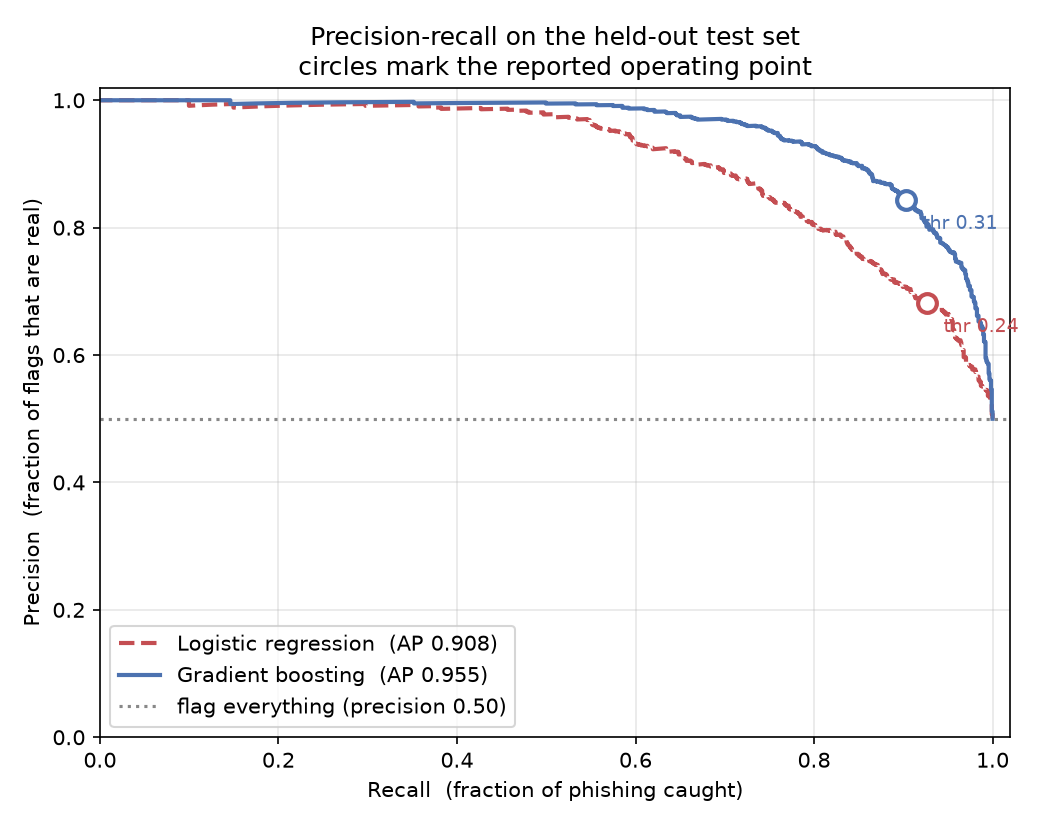
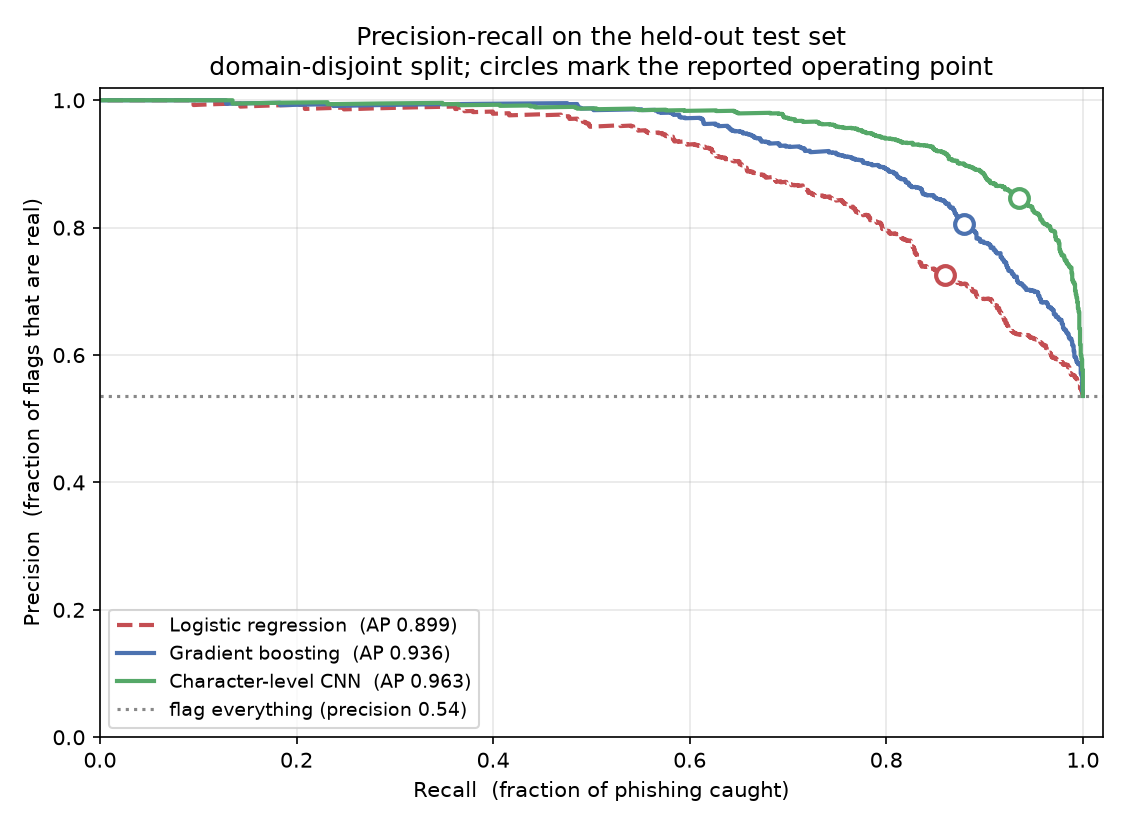
Week 4: three-model PR/ROC curves under the domain-disjoint split

diff --git a/src/plot_curves.py b/src/plot_curves.py
@@ -1,5 +1,5 @@
 """
-plot_curves.py -- Week 3: visualise the precision/recall trade-off.
+plot_curves.py -- Week 3/4: visualise the precision/recall trade-off.
 
 WHY A CURVE AND NOT A NUMBER
 
@@ -15,13 +15,24 @@ how many safe sites do I break?" -- which no summary statistic can.
 We plot PR rather than ROC as the headline because PR ignores true negatives.
 On a live feed benign traffic vastly outnumbers phishing, and ROC flatters
 models under that imbalance by rewarding correct benign predictions there is
-no shortage of. Our test set happens to be balanced 50/50, so both look fine
-here, but the PR curve is the one that survives contact with deployment.
+no shortage of.
 
-Reuses evaluate.py's split so the plotted numbers ARE the reported numbers --
-same seed, same three-way split, same test set.
+THREE MODELS, ONE SPLIT
 
-Run from the project root:
+Logistic regression and gradient boosting are retrained here -- they take
+seconds. The CNN is not: it is read from reports/cnn_test.npz, written by
+cnn.py, because retraining it inside a plotting script would be minutes of
+work to reproduce numbers that already exist.
+
+That introduces a way to be silently wrong. The saved probabilities belong to
+ONE test set, and the row-wise and domain-disjoint splits produce test sets of
+different sizes and different contents. Plotting stale probabilities against a
+fresh split would draw a confident, meaningless curve. So the npz records
+which split produced it, and this script refuses to use it unless the split
+mode and the length both match. If they do not, it plots the two feature
+models and tells you to rerun cnn.py rather than quietly drawing nonsense.
+
+Run from the project root (after evaluate.py and cnn.py):
     python src/plot_curves.py
 """
 
@@ -32,6 +43,7 @@ import matplotlib
 matplotlib.use("Agg")  # write files, never open a window
 
 import matplotlib.pyplot as plt
+import numpy as np
 import pandas as pd
 from sklearn.ensemble import HistGradientBoostingClassifier
 from sklearn.linear_model import LogisticRegression
@@ -44,15 +56,24 @@ from sklearn.metrics import (
 from sklearn.pipeline import make_pipeline
 from sklearn.preprocessing import StandardScaler
 
-from evaluate import pick_threshold, score_at, split_three_ways
+from evaluate import (
+    FALSE_ALARM_COST,
+    GROUP_BY_DOMAIN,
+    domain_groups,
+    pick_threshold,
+    score_at,
+    split_three_ways,
+)
 
 ROOT = Path(__file__).parent.parent
 FEATURES_PATH = ROOT / "data" / "raw" / "features.csv"
 REPORTS = ROOT / "reports"
+CNN_PATH = REPORTS / "cnn_test.npz"
 
 STYLE = {
     "Logistic regression": {"color": "#c44e52", "linestyle": "--"},
     "Gradient boosting": {"color": "#4c72b0", "linestyle": "-"},
+    "Character-level CNN": {"color": "#55a868", "linestyle": "-"},
 }
 
 
@@ -63,10 +84,10 @@ def fit_and_score(name, model, splits):
     model.fit(X_train, y_train)
 
     val_probs = model.predict_proba(X_val)[:, 1]
-    threshold = pick_threshold(val_probs, y_val)
+    threshold = pick_threshold(val_probs, y_val, FALSE_ALARM_COST)
 
     test_probs = model.predict_proba(X_test)[:, 1]
-    precision, recall, _ = score_at(test_probs, y_test, threshold)
+    precision, recall, _ = score_at(test_probs, y_test, threshold, FALSE_ALARM_COST)
 
     return {
         "name": name,
@@ -79,8 +100,50 @@ def fit_and_score(name, model, splits):
     }
 
 
-def plot_pr(results, y_test, path):
-    fig, ax = plt.subplots(figsize=(7, 5.5))
+def load_cnn(y_test):
+    """Load the CNN's saved predictions, or return None with a reason why.
+
+    Refuses stale data rather than plotting it. Two checks: the saved split
+    mode must match the split this run is using, and the number of saved
+    probabilities must match the number of test URLs. Either mismatch means
+    the npz was written against a different test set.
+    """
+    if not CNN_PATH.exists():
+        return None, f"{CNN_PATH.name} not found -- run `python src/cnn.py` first"
+
+    saved = np.load(CNN_PATH, allow_pickle=False)
+    probs = saved["test_probs"]
+    saved_mode = str(saved["split_mode"])
+    current_mode = "domain-disjoint" if GROUP_BY_DOMAIN else "row-wise"
+
+    if saved_mode != current_mode:
+        return None, (
+            f"{CNN_PATH.name} was written under the {saved_mode} split but this run "
+            f"uses {current_mode} -- rerun `python src/cnn.py`"
+        )
+
+    if len(probs) != len(y_test):
+        return None, (
+            f"{CNN_PATH.name} holds {len(probs)} predictions but the test set has "
+            f"{len(y_test)} URLs -- rerun `python src/cnn.py`"
+        )
+
+    threshold = float(saved["threshold"])
+    precision, recall, _ = score_at(probs, y_test, threshold, FALSE_ALARM_COST)
+
+    return {
+        "name": "Character-level CNN",
+        "probs": probs,
+        "threshold": threshold,
+        "precision": precision,
+        "recall": recall,
+        "ap": average_precision_score(y_test, probs),
+        "auc": roc_auc_score(y_test, probs),
+    }, None
+
+
+def plot_pr(results, y_test, path, subtitle):
+    fig, ax = plt.subplots(figsize=(7.5, 5.5))
 
     for r in results:
         precision, recall, _ = precision_recall_curve(y_test, r["probs"])
@@ -91,7 +154,7 @@ def plot_pr(results, y_test, path):
             linewidth=2,
             **STYLE[r["name"]],
         )
-        # The operating point evaluate.py actually reports.
+        # The operating point the project actually reports.
         ax.plot(
             r["recall"],
             r["precision"],
@@ -101,14 +164,6 @@ def plot_pr(results, y_test, path):
             markeredgewidth=2,
             color=STYLE[r["name"]]["color"],
             zorder=5,
-        )
-        ax.annotate(
-            f"thr {r['threshold']:.2f}",
-            (r["recall"], r["precision"]),
-            textcoords="offset points",
-            xytext=(8, -14),
-            fontsize=9,
-            color=STYLE[r["name"]]["color"],
         )
 
     # A model that flags everything as phishing gets precision = base rate.
@@ -123,18 +178,21 @@ def plot_pr(results, y_test, path):
 
     ax.set_xlabel("Recall  (fraction of phishing caught)")
     ax.set_ylabel("Precision  (fraction of flags that are real)")
-    ax.set_title("Precision-recall on the held-out test set\ncircles mark the reported operating point")
+    ax.set_title(
+        "Precision-recall on the held-out test set\n"
+        f"{subtitle}; circles mark the reported operating point"
+    )
     ax.set_xlim(0, 1.02)
     ax.set_ylim(0, 1.02)
     ax.grid(alpha=0.3)
-    ax.legend(loc="lower left", frameon=True)
+    ax.legend(loc="lower left", frameon=True, fontsize=9)
     fig.tight_layout()
     fig.savefig(path, dpi=150)
     plt.close(fig)
 
 
-def plot_roc(results, y_test, path):
-    fig, ax = plt.subplots(figsize=(7, 5.5))
+def plot_roc(results, y_test, path, subtitle):
+    fig, ax = plt.subplots(figsize=(7.5, 5.5))
 
     for r in results:
         fpr, tpr, _ = roc_curve(y_test, r["probs"])
@@ -149,11 +207,11 @@ def plot_roc(results, y_test, path):
     ax.plot([0, 1], [0, 1], color="#888888", linestyle=":", linewidth=1.5, label="random")
     ax.set_xlabel("False positive rate  (safe sites blocked)")
     ax.set_ylabel("True positive rate  (phishing caught)")
-    ax.set_title("ROC on the held-out test set")
+    ax.set_title(f"ROC on the held-out test set\n{subtitle}")
     ax.set_xlim(0, 1)
     ax.set_ylim(0, 1.02)
     ax.grid(alpha=0.3)
-    ax.legend(loc="lower right", frameon=True)
+    ax.legend(loc="lower right", frameon=True, fontsize=9)
     fig.tight_layout()
     fig.savefig(path, dpi=150)
     plt.close(fig)
@@ -164,8 +222,14 @@ def main() -> None:
     X = df.drop(columns=["label"])
     y = df["label"]
 
-    splits = split_three_ways(X, y)
+    # Same split as evaluate.py and cnn.py -- imported, not reimplemented.
+    groups = domain_groups(len(df)) if GROUP_BY_DOMAIN else None
+    splits = split_three_ways(X, y, groups)
     y_test = splits[5]
+
+    subtitle = "domain-disjoint split" if GROUP_BY_DOMAIN else "row-wise split"
+    print(f"split: {subtitle}")
+    print(f"test set: {len(y_test)} URLs, {int(y_test.sum())} phishing")
 
     results = [
         fit_and_score(
@@ -185,11 +249,16 @@ def main() -> None:
         ),
     ]
 
-    REPORTS.mkdir(exist_ok=True)
-    plot_pr(results, y_test, REPORTS / "pr_curve.png")
-    plot_roc(results, y_test, REPORTS / "roc_curve.png")
+    cnn, problem = load_cnn(y_test)
+    if cnn is None:
+        print(f"\nWARNING: plotting without the CNN -- {problem}\n")
+    else:
+        results.append(cnn)
 
-    print(f"test set: {len(y_test)} URLs, {int(y_test.sum())} phishing")
+    REPORTS.mkdir(exist_ok=True)
+    plot_pr(results, y_test, REPORTS / "pr_curve.png", subtitle)
+    plot_roc(results, y_test, REPORTS / "roc_curve.png", subtitle)
+
     for r in results:
         print(
             f"  {r['name']:<22} AP {r['ap']:.3f}  AUC {r['auc']:.3f}  "

diff --git a/src/cnn.py b/src/cnn.py
@@ -286,10 +286,23 @@ def main() -> None:
     print("boosting scored AUC 0.949 and this CNN 0.979; both are inflated by")
     print("domain overlap, so compare like with like.")
 
-    # Saved so week 5 can compare all three models without retraining.
+    # Saved so plot_curves.py and week 5 can use this model's predictions
+    # without retraining it. The threshold goes in too -- without it the
+    # operating point cannot be marked on a curve, and re-deriving it would
+    # mean re-running the model on validation.
+    #
+    # split_mode is recorded because these probabilities are only meaningful
+    # against the test set they came from: the row-wise and domain-disjoint
+    # splits produce test sets of different sizes AND different contents.
+    # Anything loading this file must check before trusting it.
     REPORTS.mkdir(exist_ok=True)
-    np.save(REPORTS / "cnn_test_probs.npy", test_probs)
-    print(f"\nwrote {REPORTS / 'cnn_test_probs.npy'}")
+    np.savez(
+        REPORTS / "cnn_test.npz",
+        test_probs=test_probs,
+        threshold=threshold,
+        split_mode="domain-disjoint" if GROUP_BY_DOMAIN else "row-wise",
+    )
+    print(f"\nwrote {REPORTS / 'cnn_test.npz'}")
 
 
 if __name__ == "__main__":
